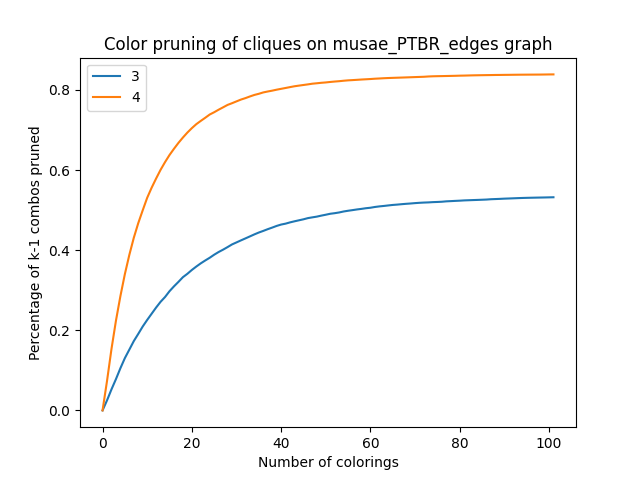
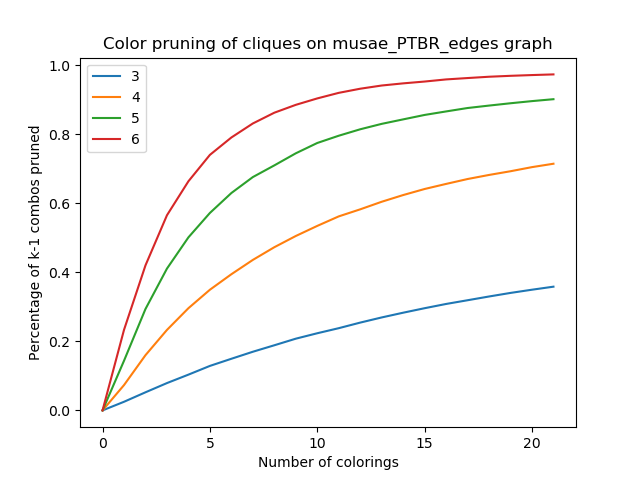
Ran a lot of tests, facebook graph was too big. Didn't work

diff --git a/pruning_test.py b/pruning_test.py
@@ -86,10 +86,7 @@ def prefix_sum(nums_list):
 
 
 def main():
-    # filenames = [("facebook_combined.txt", " ")]
-    #             ("Email-Enron.txt", "\t"))
                 # ("musae_facebook_edges.csv", ","))
-                # ("musae_DE_edges.csv", ","),
     filenames = [("musae_PTBR_edges.csv", ","),
                  ("musae_RU_edges.csv", ","),
                  ("musae_ENGB_edges.csv", ","),
@@ -99,15 +96,8 @@ def main():
                  ("Email-Enron.txt", "\t"),
                  ("musae_DE_edges.csv", ","),
                  ("facebook_combined.txt", " ")]
-    # filenames = [("musae_ES_edges.csv", ",")] #,
-                # ("musae_ENGB_edges.csv", ","),
-                # ("musae_ES_edges.csv", ","),
-                # ("musae_FR_edges.csv", ","),
-                # ("musae_RU_edges.csv", ","),
-    # for filename_delim in filenames:
-    #     compare_colorings(filename_delim[0], filename_delim[1])
-    clique_size = 7
-    colorings_to_test = 100
+    clique_size = 6
+    colorings_to_test = 20
     dir_name = "graphs/"
     for filename in filenames:
         graph_name = filename[0].split(".")[0]
@@ -133,6 +123,7 @@ def main():
         plt.xlabel("Number of colorings")
         plt.ylabel("Percentage of k-1 combos pruned")
         plt.savefig(f"charts/{graph_name}_color_pruning.png")
+        plt.clf()
             
 
 if __name__ == "__main__":
